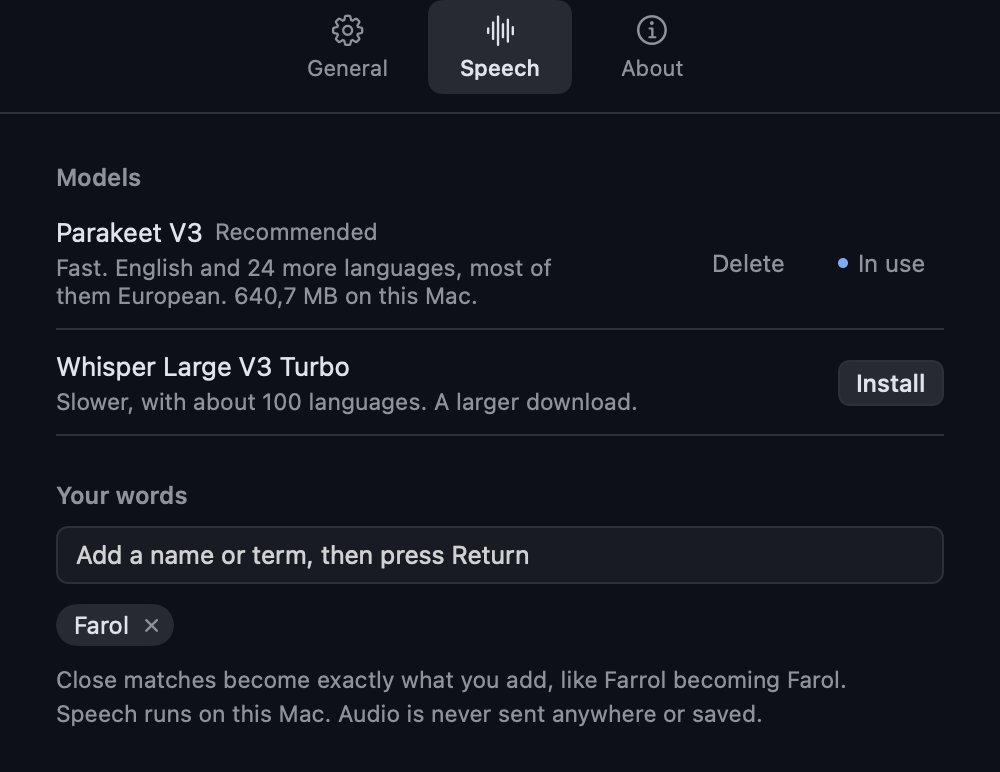
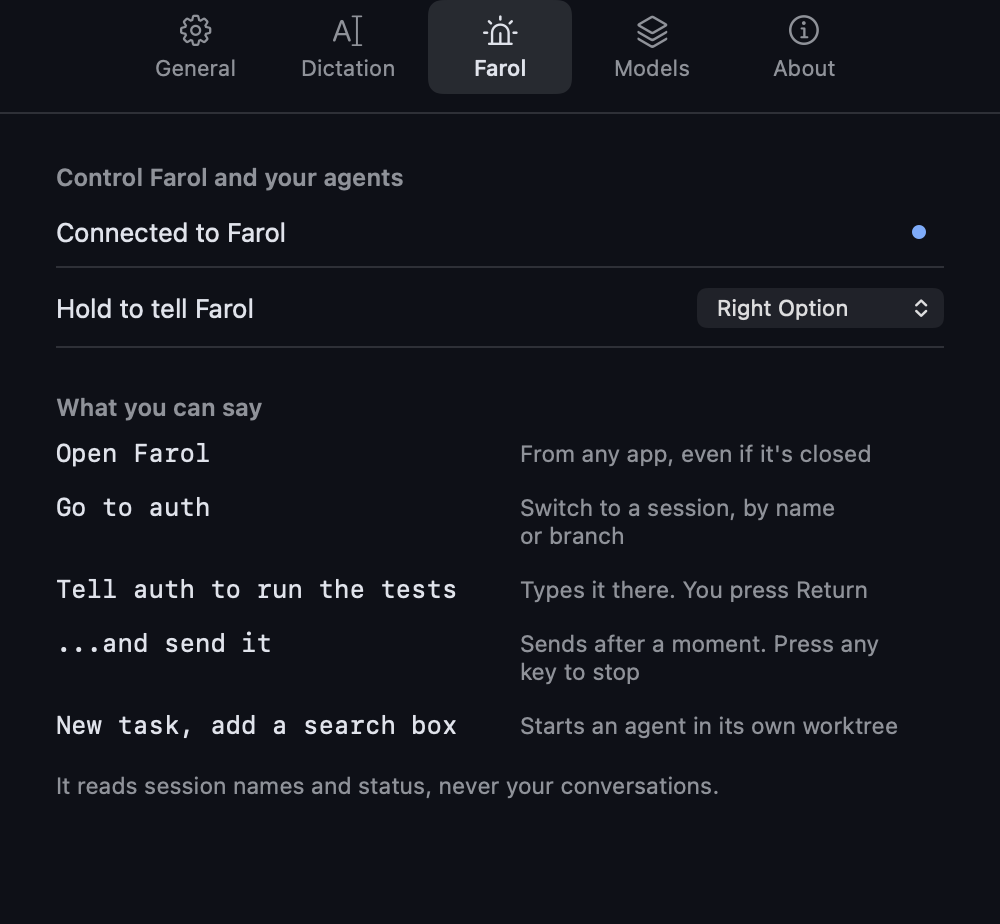
docs(site): say it controls Farol, with new screenshots

diff --git a/site/index.html b/site/index.html
@@ -3,13 +3,13 @@
 <head>
   <meta charset="utf-8">
   <meta name="viewport" content="width=device-width, initial-scale=1">
-  <title>Farol Voice: free, private dictation for Mac</title>
-  <meta name="description" content="Hold a key, talk, and your words appear in any app. Farol Voice is free, open source dictation for macOS that runs entirely on your Mac.">
+  <title>Farol Voice: dictation for Mac, and voice control for coding agents</title>
+  <meta name="description" content="Hold a key, talk, and your words appear in any app, or tell Farol what to do: switch sessions and message your coding agents. Free, open source, and it all runs on your Mac.">
   <link rel="canonical" href="https://voice.farol.sh/">
   <meta property="og:type" content="website">
   <meta property="og:site_name" content="Farol Voice">
   <meta property="og:url" content="https://voice.farol.sh/">
-  <meta property="og:title" content="Farol Voice: free, private dictation for Mac">
+  <meta property="og:title" content="Farol Voice: dictation for Mac, and voice control for coding agents">
   <meta property="og:description" content="Hold a key, talk, and your words appear in any app. Everything runs on your Mac.">
   <meta property="og:image" content="https://voice.farol.sh/og.png">
   <meta property="og:image:width" content="1200">
@@ -21,7 +21,7 @@
     "@context": "https://schema.org",
     "@type": "SoftwareApplication",
     "name": "Farol Voice",
-    "description": "Free, open source dictation for macOS that runs entirely on your Mac.",
+    "description": "Free, open source dictation for macOS, with voice control of coding agents in Farol. It all runs on your Mac.",
     "url": "https://voice.farol.sh/",
     "image": "https://voice.farol.sh/og.png",
     "applicationCategory": "UtilitiesApplication",
@@ -103,6 +103,9 @@
       opacity: 0; transform: translate(-50%, 4px); transition: opacity 120ms ease-out, transform 120ms ease-out;
     }
     .pill.on { opacity: 1; transform: translate(-50%, 0); }
+    .pill svg { display: none; width: 16px; height: 16px; margin-right: 7px; }
+    .pill.command svg { display: block; }
+    .demo-said { color: #8e929b; font-style: italic; }
     .pill i { display: block; width: 2.5px; height: 16px; border-radius: 2px; background: #dfe3ec; transform: scaleY(0.19); }
     .pill.talking i { animation: voice 0.62s ease-in-out infinite alternate; }
     .pill.talking i:nth-child(1) { animation-delay: -0.1s; --top: 0.45; }
@@ -158,31 +161,32 @@
   <main>
     <section class="hero column">
       <img src="icon.png" alt="Farol Voice icon" width="80" height="80">
-      <h1>Farol Voice <span class="tagline">Hold a key, talk, and your words appear in any app. It all runs on your Mac.</span></h1>
+      <h1>Farol Voice <span class="tagline">Type with your voice in any app, and tell your coding agents what to do. It all runs on your Mac.</span></h1>
       <div class="actions">
         <a class="sn-btn sn-btn--primary sn-btn--lg" href="https://github.com/snowztech/farol-voice/releases/latest/download/FarolVoice.dmg">Download for Mac</a>
         <a class="sn-btn sn-btn--secondary sn-btn--lg" href="https://github.com/snowztech/farol-voice">GitHub</a>
       </div>
       <p class="fine">Apple silicon, macOS 15+. Free and open source.</p>
 
-      <div class="demo" role="img" aria-label="An example in a small app window. Someone holds the Fn key and talks, a waveform shows while they speak, and when they let go their words appear at the cursor.">
+      <div class="demo" role="img" aria-label="Examples in a small app window. Someone holds a key and talks, a waveform shows while they speak, and when they let go their words appear at the cursor, or Farol types their instruction to a coding agent.">
         <div class="demo-bar" aria-hidden="true"><i></i><i></i><i></i><span class="demo-app" id="demo-app">Terminal</span></div>
         <div class="demo-body" id="demo-body" aria-hidden="true">
           <div class="demo-hint" id="demo-hint">Coding agent, waiting for you</div>
           <div class="demo-field"><span class="demo-prompt" id="demo-prompt">&gt;</span><span class="demo-text on" id="demo-text">Add a retry to the upload worker and run the tests.</span><span class="demo-caret"></span></div>
         </div>
         <div class="demo-key" id="demo-key" aria-hidden="true">fn</div>
-        <div class="pill" id="demo-pill" aria-hidden="true"><i></i><i></i><i></i><i></i><i></i><i></i><i></i></div>
+        <div class="pill" id="demo-pill" aria-hidden="true"><svg viewBox="0 0 18 18" aria-hidden="true"><path fill="#dfe3ec" d="M6 15.5h6l-1.4-8H7.4zM4.5 15.5h9v1.3h-9zM7.6 4.3h2.8v2.4H7.6zM7.1 3.7h3.8L9 1.6z"/><path fill="none" stroke="#71adff" stroke-width="1.6" stroke-linecap="round" stroke-linejoin="round" d="M2.2 3.4 5.4 5.5 2.2 7.6M15.8 3.4 12.6 5.5 15.8 7.6"/></svg><i></i><i></i><i></i><i></i><i></i><i></i><i></i></div>
       </div>
     </section>
 
     <ul class="features wide">
+      <li><h2>Talk to your agents</h2><p>Hold a second key to tell <a href="https://farol.sh">Farol</a> what to do from any app: open it, switch sessions, message an agent or start a task.</p></li>
       <li><h2>Works everywhere</h2><p>Your editor, your terminal, Slack, a browser. It types wherever your cursor is, and puts your clipboard back afterwards.</p></li>
       <li><h2>Stays on your Mac</h2><p>Speech runs on your own machine. Audio is never sent anywhere or saved, and once a model is installed it needs no network.</p></li>
       <li><h2>No account, no subscription</h2><p>Free and open source under the MIT license. Install it, allow two permissions and start talking.</p></li>
-      <li><h2>Your choice of model</h2><p>Parakeet for speed in English and 24 more languages, or Whisper for about 100 languages. Install, switch and delete them yourself.</p></li>
+      <li><h2>Pick your language</h2><p>It recommends the model for what you speak: fast for English and 24 more languages, or about 100 languages with a slower one. Install and delete them yourself.</p></li>
       <li><h2>Gets your words right</h2><p>Add the names and terms you use, and close matches become exactly what you wrote.</p></li>
-      <li><h2>Careful with your words</h2><p>It won't type into a password field. Switch apps while it's working, and the text goes to your clipboard instead of the wrong window.</p></li>
+      <li><h2>Careful with your words</h2><p>It won't type into a password field or a question an agent is waiting on, and it never guesses between two sessions. Your words go to the clipboard instead.</p></li>
     </ul>
 
     <div class="shots wide">
@@ -191,14 +195,14 @@
         <figcaption>Set up in four steps.</figcaption>
       </figure>
       <figure>
-        <img src="settings.png" width="1000" height="772" loading="lazy" alt="Farol Voice settings, showing speech models to install and a list of your own words.">
-        <figcaption>Your models, your words.</figcaption>
+        <img src="settings.png" width="1000" height="924" loading="lazy" alt="Farol Voice settings, showing it's connected to Farol, the key to hold and what you can say.">
+        <figcaption>Tell Farol what to do.</figcaption>
       </figure>
     </div>
 
     <section class="next column" aria-labelledby="next-title">
       <h2 id="next-title">Where it's going</h2>
-      <p>Dictation is the first step. Next, it's becoming a voice assistant for <a href="https://farol.sh">Farol</a>, the terminal for coding agents: switch sessions, talk to your agents and hear them answer. Follow along on the <a href="https://github.com/snowztech/farol-voice/blob/main/ROADMAP.md">roadmap</a>.</p>
+      <p>Today you can tell <a href="https://farol.sh">Farol</a>, the terminal for coding agents, what to do. Next, your agents answer out loud, then "OK Farol" makes it hands-free. Follow along on the <a href="https://github.com/snowztech/farol-voice/blob/main/ROADMAP.md">roadmap</a>.</p>
     </section>
 
     <section class="faq column" aria-labelledby="faq-title">
@@ -214,13 +218,16 @@
       <p>macOS requires it for two things: noticing your key while you're in another app, and typing your words for you. It only looks for the key you chose, and doesn't record or store what you type. The code is open if you'd like to read it.</p>
 
       <h3>Which languages does it understand?</h3>
-      <p>Parakeet V3 covers English and 24 more languages, most of them European. Whisper covers about 100.</p>
+      <p>About 100. Choose yours and it recommends the model: Parakeet V3 is the fast one, for English and 24 more languages, most of them European, and Whisper covers the rest.</p>
 
       <h3>What do I need to run it?</h3>
       <p>A Mac with Apple silicon and macOS 15 or later, and about 600 MB of disk space for the Parakeet model.</p>
 
       <h3>Do I need Farol to use it?</h3>
-      <p>No. It works on its own in any app. <a href="https://farol.sh">Farol</a> is a separate terminal for coding agents, and working together with it is what's coming next.</p>
+      <p>Not for dictation, which works on its own in any app. Telling your agents what to do needs <a href="https://farol.sh">Farol</a> 0.54.1 or later, with Settings, Agents, Let Farol Voice control sessions turned on.</p>
+
+      <h3>What can I say to Farol?</h3>
+      <p>"Open Farol", "go to auth", "tell auth to run the tests", add "and send it" to send, or "new task, add a search box". It reads session names and status, never your conversations.</p>
     </section>
   </main>
 
@@ -238,6 +245,7 @@
     (function () {
       var scenes = [
         { app: "Terminal", hint: "Coding agent, waiting for you", prompt: ">", text: "Add a retry to the upload worker and run the tests." },
+        { app: "Farol", hint: "Sessions: auth, search, docs", prompt: ">", key: "\u2325", command: true, said: "\u201CTell auth to run the tests\u201D", text: "Typed in auth: run the tests." },
         { app: "Team chat", hint: "#launch", prompt: "", text: "Let's ship the release on Friday." },
         { app: "Mail", hint: "To: Ana", prompt: "", text: "Thanks for the intro. Tuesday afternoon works for me." }
       ];
@@ -249,6 +257,8 @@
       function open(scene) {
         app.textContent = scene.app;
         hint.textContent = scene.hint;
+        key.textContent = scene.key || "fn";
+        pill.classList.toggle("command", !!scene.command);
         prompt.textContent = scene.prompt;
         prompt.style.display = scene.prompt ? "" : "none";
         text.textContent = scene.text;
@@ -263,6 +273,9 @@
         pill.classList.toggle("talking", phase === "talking");
         pill.classList.toggle("thinking", phase === "thinking");
         text.classList.toggle("on", phase === "done");
+        // A command is heard, not typed, so what you said shows until Farol has acted on it.
+        hint.textContent = scenes[index].said && phase !== "idle" && phase !== "done" ? scenes[index].said : scenes[index].hint;
+        hint.classList.toggle("demo-said", !!scenes[index].said && phase !== "idle" && phase !== "done");
       }
 
       // Stays on the first scene's finished state, as the page loads, for anyone who prefers no motion.

diff --git a/Sources/FarolVoice/Snapshot.swift b/Sources/FarolVoice/Snapshot.swift
@@ -11,8 +11,10 @@ enum Snapshot {
         signal.target = 0.8
         for _ in 0..<30 { _ = signal.step() }
         NSApp.applicationIconImage = NSImage(contentsOfFile: "assets/FarolVoice.icns")
+        // Near each tab's natural height, since a fixed test size leaves a gap the real window doesn't have.
+        let heights: [SettingsView.Section: CGFloat] = [.farol: 462, .models: 342]
         for section in SettingsView.Section.allCases {
-            save(SettingsView(library: library, preferences: preferences, section: section, farolStatus: .needsSetting), "settings-\(section.rawValue)", folder, height: 560)
+            save(SettingsView(library: library, preferences: preferences, section: section, farolStatus: .ready), "settings-\(section.rawValue)", folder, height: heights[section] ?? 560)
         }
         save(SetupView(library: library, preferences: preferences) {}, "setup", folder)
         for size in WaveSize.allCases {

diff --git a/README.md b/README.md
@@ -13,19 +13,20 @@
 
 Hold a key, talk, let go, and your words appear wherever you were typing: your editor, your terminal, Slack, a browser. Speech runs on your Mac, with no account, no subscription and nothing sent anywhere.
 
-It's the first step toward a voice assistant for your terminal and coding agents, working with [Farol](https://github.com/snowztech/farol). Today it's dictation, and that part is ready to use every day. See [what's next](ROADMAP.md).
+Hold a second key to tell [Farol](https://github.com/snowztech/farol), the terminal for coding agents, what to do. It's on its way to being a voice assistant for your agents. See [what's next](ROADMAP.md).
 
 <p align="center">
   <img src="site/setup.png" width="49%" alt="The setup window, with steps to allow the microphone and Accessibility, install a speech model and try it.">
-  <img src="site/settings.png" width="49%" alt="Settings, showing speech models to install and a list of your own words.">
+  <img src="site/settings.png" width="49%" alt="Settings, showing it's connected to Farol, the key to hold and what you can say.">
 </p>
 
 ## What it does
 
+- **Talks to your agents.** Say "open Farol", "go to auth", "tell auth to run the tests", or "new task, add a search box", from any app. It needs Farol 0.54.1 or later, with **Settings, Agents, Let Farol Voice control sessions** turned on.
 - **Works everywhere.** It types into any app, and puts your clipboard back afterwards.
 - **Runs on your Mac.** Audio is never sent anywhere or saved. Once a model is installed, it needs no network.
 - **Fast.** About a tenth of a second to transcribe a short phrase on Apple Silicon, using the Parakeet V3 model.
-- **Your choice of model.** Parakeet V3 for speed in English and 24 more languages, or Whisper for about 100 languages. Install, switch and delete them yourself.
+- **Pick your language.** It recommends the model for it: Parakeet for speed in English and 24 more languages, or Whisper for about 100. Install, switch and delete them yourself.
 - **Gets your words right.** Add names and terms, and close matches become exactly what you wrote.
 - **Careful with your words.** It won't type into a password field, and if you switch apps while it's working, the text goes to your clipboard and not the wrong window.
 - **Quiet.** A small waveform shows while the mic is open, and it uses no CPU between uses.
@@ -36,7 +37,7 @@ It's the first step toward a voice assistant for your terminal and coding agents
 
 The setup window walks you through the rest: allow the microphone and Accessibility, install a model, and try it. After that it lives in your menu bar, under the sound bars.
 
-Hold **Fn** to talk, or choose Right Option or another right-side key in Settings. If Fn opens the emoji picker, change what it does in System Settings, Keyboard.
+Hold **Fn** to dictate and **Right Option** to tell Farol, or choose other keys in Settings. If Fn opens the emoji picker, change what it does in System Settings, Keyboard.
 
 Models are in `~/Library/Application Support/Farol Voice/models`.
 
